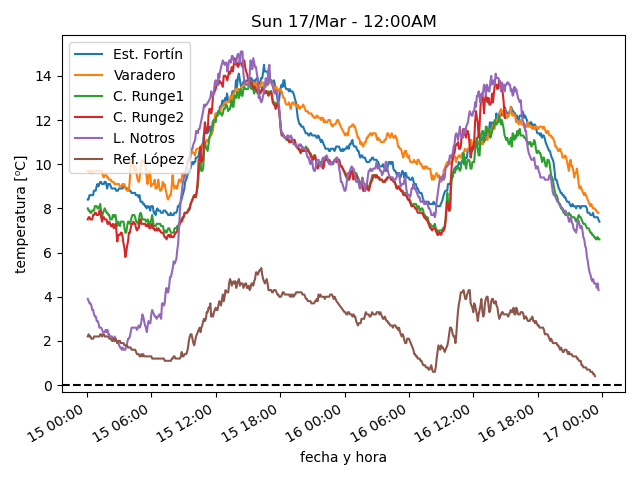
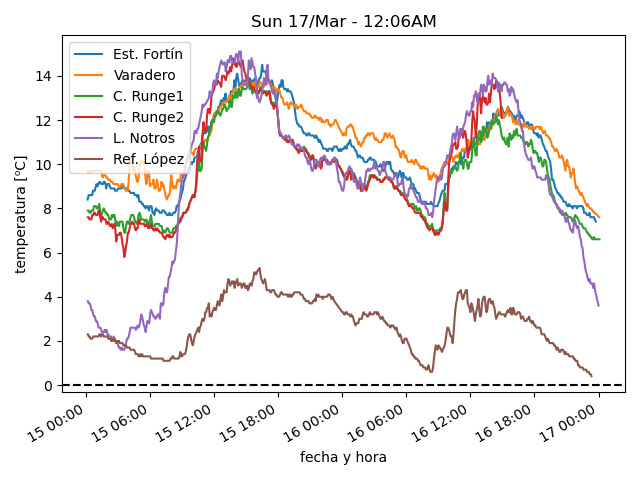
actualiza datos

diff --git a/estaciones/estacion5.html b/estaciones/estacion5.html
@@ -13,17 +13,17 @@
     </tr>
     <tr>
      <td class="stats_data">
-      Sat 16/Mar
+      Sun 17/Mar
      </td>
     </tr>
     <tr>
      <td class="stats_data">
-      11:40PM
+      12:00AM
      </td>
     </tr>
     <tr>
      <td class="stats_data">
-      4.3
+      3.6
      </td>
     </tr>
     <tr>
@@ -33,12 +33,12 @@
     </tr>
     <tr>
      <td class="stats_data">
-      76.0
+      80.0
      </td>
     </tr>
     <tr>
      <td class="stats_data">
-      1019.13
+      1019.47
      </td>
     </tr>
     <tr>
@@ -48,7 +48,7 @@
     </tr>
     <tr>
      <td class="stats_data">
-      0.25 / 0.0
+      0.0 / 0.0
      </td>
     </tr>
     <tr>

diff --git a/estaciones/estacion3.html b/estaciones/estacion3.html
@@ -13,12 +13,12 @@
     </tr>
     <tr>
      <td class="stats_data">
-      Sat 16/Mar
+      Sun 17/Mar
      </td>
     </tr>
     <tr>
      <td class="stats_data">
-      11:44PM
+      12:04AM
      </td>
     </tr>
     <tr>
@@ -28,22 +28,22 @@
     </tr>
     <tr>
      <td class="stats_data">
-      0.4
+      0.3
      </td>
     </tr>
     <tr>
      <td class="stats_data">
-      64.8
+      64.1
      </td>
     </tr>
     <tr>
      <td class="stats_data">
-      1006.54
+      1006.43
      </td>
     </tr>
     <tr>
      <td class="stats_data">
-      5.7/8.1 WSW
+      4.8/6.7 SW
      </td>
     </tr>
     <tr>

diff --git a/estaciones/estacion2.html b/estaciones/estacion2.html
@@ -13,27 +13,27 @@
     </tr>
     <tr>
      <td class="stats_data">
-      Sat 16/Mar
+      Sun 17/Mar
      </td>
     </tr>
     <tr>
      <td class="stats_data">
-      11:39PM
+      12:04AM
      </td>
     </tr>
     <tr>
      <td class="stats_data">
-      7.8
+      7.6
      </td>
     </tr>
     <tr>
      <td class="stats_data">
-      1.2
+      0.9
      </td>
     </tr>
     <tr>
      <td class="stats_data">
-      62.8
+      62.6
      </td>
     </tr>
     <tr>
@@ -43,7 +43,7 @@
     </tr>
     <tr>
      <td class="stats_data">
-      4.5/7.0 WSW
+      3.9/5.8 W
      </td>
     </tr>
     <tr>
